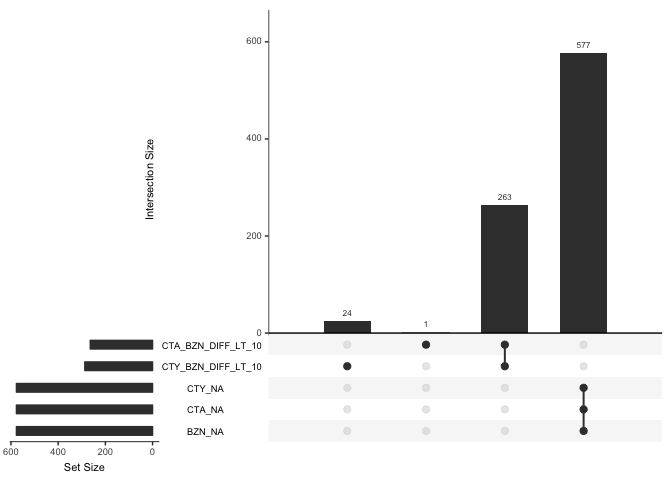
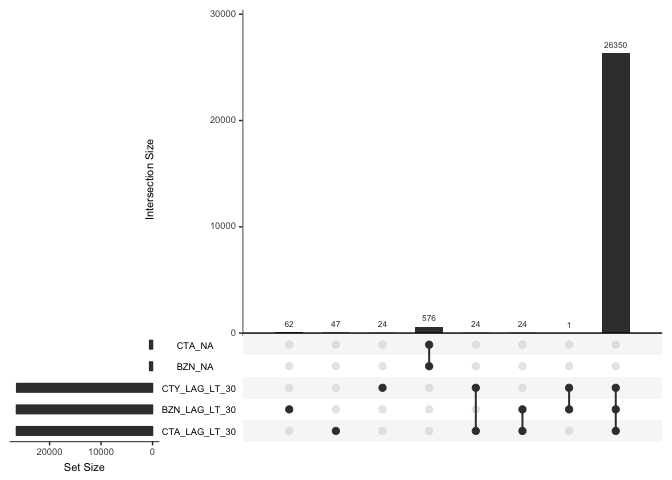
update readme

diff --git a/README.md b/README.md
@@ -1,33 +1,47 @@
 <!-- README.md is generated from README.Rmd. Please edit that file -->
-[![Build Status](https://travis-ci.org/rte-antares-rpackage/antaDraft.svg?branch=master)](https://travis-ci.org/rte-antares-rpackage/antaDraft) [![AppVeyor Build Status](https://ci.appveyor.com/api/projects/status/github/rte-antares-rpackage/antaDraft?branch=master&svg=true)](https://ci.appveyor.com/project/rte-antares-rpackage/antaDraft) [![version](http://www.r-pkg.org/badges/version/antaDraft)](https://CRAN.R-project.org/package=antaDraft) [![Project Status: WIP - Initial development is in progress, but there has not yet been a stable, usable release suitable for the public.](http://www.repostatus.org/badges/latest/wip.svg)](http://www.repostatus.org/#wip) [![codecov](https://codecov.io/gh/rte-antares-rpackage/antaDraft/branch/master/graph/badge.svg)](https://codecov.io/gh/rte-antares-rpackage/antaDraft)
+[![Build
+Status](https://travis-ci.org/rte-antares-rpackage/antaDraft.svg?branch=master)](https://travis-ci.org/rte-antares-rpackage/antaDraft)
+[![AppVeyor Build
+Status](https://ci.appveyor.com/api/projects/status/github/rte-antares-rpackage/antaDraft?branch=master&svg=true)](https://ci.appveyor.com/project/rte-antares-rpackage/antaDraft)
+[![version](http://www.r-pkg.org/badges/version/antaDraft)](https://CRAN.R-project.org/package=antaDraft)
+[![Project Status: WIP - Initial development is in progress, but there
+has not yet been a stable, usable release suitable for the
+public.](http://www.repostatus.org/badges/latest/wip.svg)](http://www.repostatus.org/#wip)
+[![codecov](https://codecov.io/gh/rte-antares-rpackage/antaDraft/branch/master/graph/badge.svg)](https://codecov.io/gh/rte-antares-rpackage/antaDraft)
 
 antaDraft
 =========
 
-Le package contient un ensemble de fonctions pour vérifier et corriger des données entsoe.
+Le package contient un ensemble de fonctions pour vérifier et corriger
+des données entsoe.
 
-L'objectif du package est de permettre la création d'un jeu de données complet pour deux années de données et pour plusieurs pays.
+L’objectif du package est de permettre la création d’un jeu de données
+complet pour deux années de données et pour plusieurs pays.
 
-Les données peuvent être manquantes ou imparfaites. Il s'agit de permettre :
+Les données peuvent être manquantes ou imparfaites. Il s’agit de
+permettre :
 
--   l'identification des problèmes,
--   leur reporting afin de permettre leur correction par l'entsoe,
--   leur correction si la donnée n'a pu être corrigée par l'entsoe.
+-   l’identification des problèmes,
+-   leur reporting afin de permettre leur correction par l’entsoe,
+-   leur correction si la donnée n’a pu être corrigée par l’entsoe.
 
-La procédure est pour l'instant implémentée pour les données de consommation.
+La procédure est pour l’instant implémentée pour les données de
+consommation.
 
 Utilisation
 -----------
 
-On va charger l'ensemble des données archivées sur archive.org à l'URL suivante : <https://archive.org/details/RTE_load>
+On va charger l’ensemble des données archivées sur archive.org à l’URL
+suivante : <https://archive.org/details/RTE_load>
 
-Le zip à charger est le suivant: <https://archive.org/download/RTE_load/load.zip>.
+Le zip à charger est le suivant:
+<https://archive.org/download/RTE_load/load.zip>.
 
 ``` r
 load_dir <- file.path(tempdir(), "load_files" )
 load_zip <- file.path(tempdir(), "load.zip" )
 
-local_zip <- "/Users/davidgohel/Documents/consulting/RTE/load.zip"
+local_zip <- "/Users/davidgohel/Documents/consulting/RTE/load_20180115.zip"
 if( file.exists(local_zip))
   file.copy(local_zip, load_zip, overwrite = TRUE )
 #> [1] TRUE
@@ -42,7 +56,9 @@ if( dir.exists(load_dir) )
 utils::unzip(load_zip, exdir = load_dir )
 ```
 
-Les données sont disponibles dans le répertoire /var/folders/51/6jygptvs3bb4njv0t6x7br900000gn/T//Rtmplu1jVV/load\_files. Celui ci contient les fichiers suivants :
+Les données sont disponibles dans le répertoire
+/var/folders/51/6jygptvs3bb4njv0t6x7br900000gn/T//RtmphJmpGM/load\_files.
+Celui ci contient les fichiers suivants :
 
 ``` r
 csv_files <- list.files(load_dir, full.names = TRUE, pattern = "\\.csv$")
@@ -55,42 +71,44 @@ kable(csv_infos)
 
 |      size|  mode| file                          |
 |---------:|-----:|:------------------------------|
-|   4818386|   644| 2014\_12\_ActualTotalLoad.csv |
-|  11754185|   644| 2015\_1\_ActualTotalLoad.csv  |
-|  11875151|   644| 2015\_10\_ActualTotalLoad.csv |
-|  11310245|   644| 2015\_11\_ActualTotalLoad.csv |
-|  11781045|   644| 2015\_12\_ActualTotalLoad.csv |
-|  10726041|   644| 2015\_2\_ActualTotalLoad.csv  |
-|  11786273|   644| 2015\_3\_ActualTotalLoad.csv  |
-|  11696767|   644| 2015\_4\_ActualTotalLoad.csv  |
-|  12125893|   644| 2015\_5\_ActualTotalLoad.csv  |
-|  11541557|   644| 2015\_6\_ActualTotalLoad.csv  |
-|  11875512|   644| 2015\_7\_ActualTotalLoad.csv  |
-|  11475232|   644| 2015\_8\_ActualTotalLoad.csv  |
-|  11390834|   644| 2015\_9\_ActualTotalLoad.csv  |
-|  11418000|   644| 2016\_1\_ActualTotalLoad.csv  |
-|  11872808|   644| 2016\_10\_ActualTotalLoad.csv |
-|  11450892|   644| 2016\_11\_ActualTotalLoad.csv |
-|  11911508|   644| 2016\_12\_ActualTotalLoad.csv |
-|  10714419|   644| 2016\_2\_ActualTotalLoad.csv  |
-|  11895715|   644| 2016\_3\_ActualTotalLoad.csv  |
-|  11049161|   644| 2016\_4\_ActualTotalLoad.csv  |
-|  11393888|   644| 2016\_5\_ActualTotalLoad.csv  |
-|  11050699|   644| 2016\_6\_ActualTotalLoad.csv  |
-|  11617278|   644| 2016\_7\_ActualTotalLoad.csv  |
-|  11567217|   644| 2016\_8\_ActualTotalLoad.csv  |
-|  11134715|   644| 2016\_9\_ActualTotalLoad.csv  |
-|  11780627|   644| 2017\_1\_ActualTotalLoad.csv  |
-|  12195737|   644| 2017\_10\_ActualTotalLoad.csv |
-|   6721301|   644| 2017\_11\_ActualTotalLoad.csv |
-|  10569835|   644| 2017\_2\_ActualTotalLoad.csv  |
-|  11947416|   644| 2017\_3\_ActualTotalLoad.csv  |
-|  11574205|   644| 2017\_4\_ActualTotalLoad.csv  |
-|  11942550|   644| 2017\_5\_ActualTotalLoad.csv  |
-|  11595339|   644| 2017\_6\_ActualTotalLoad.csv  |
-|  11714825|   644| 2017\_7\_ActualTotalLoad.csv  |
-|  11457734|   644| 2017\_8\_ActualTotalLoad.csv  |
-|  11212010|   644| 2017\_9\_ActualTotalLoad.csv  |
+|   4818387|   644| 2014\_12\_ActualTotalLoad.csv |
+|  11754929|   644| 2015\_1\_ActualTotalLoad.csv  |
+|  11875895|   644| 2015\_10\_ActualTotalLoad.csv |
+|  11310965|   644| 2015\_11\_ActualTotalLoad.csv |
+|  11781789|   644| 2015\_12\_ActualTotalLoad.csv |
+|  10726713|   644| 2015\_2\_ActualTotalLoad.csv  |
+|  11787017|   644| 2015\_3\_ActualTotalLoad.csv  |
+|  11697487|   644| 2015\_4\_ActualTotalLoad.csv  |
+|  12126637|   644| 2015\_5\_ActualTotalLoad.csv  |
+|  11542277|   644| 2015\_6\_ActualTotalLoad.csv  |
+|  11876256|   644| 2015\_7\_ActualTotalLoad.csv  |
+|  11475976|   644| 2015\_8\_ActualTotalLoad.csv  |
+|  11391554|   644| 2015\_9\_ActualTotalLoad.csv  |
+|  11419260|   644| 2016\_1\_ActualTotalLoad.csv  |
+|  11875625|   644| 2016\_10\_ActualTotalLoad.csv |
+|  11451870|   644| 2016\_11\_ActualTotalLoad.csv |
+|  11912513|   644| 2016\_12\_ActualTotalLoad.csv |
+|  10715373|   644| 2016\_2\_ActualTotalLoad.csv  |
+|  11896459|   644| 2016\_3\_ActualTotalLoad.csv  |
+|  11049881|   644| 2016\_4\_ActualTotalLoad.csv  |
+|  11394632|   644| 2016\_5\_ActualTotalLoad.csv  |
+|  11051677|   644| 2016\_6\_ActualTotalLoad.csv  |
+|  11618280|   644| 2016\_7\_ActualTotalLoad.csv  |
+|  11567961|   644| 2016\_8\_ActualTotalLoad.csv  |
+|  11135435|   644| 2016\_9\_ActualTotalLoad.csv  |
+|  11781347|   644| 2017\_1\_ActualTotalLoad.csv  |
+|  12206677|   644| 2017\_10\_ActualTotalLoad.csv |
+|  11575500|   644| 2017\_11\_ActualTotalLoad.csv |
+|  11797364|   644| 2017\_12\_ActualTotalLoad.csv |
+|  10570762|   644| 2017\_2\_ActualTotalLoad.csv  |
+|  11948418|   644| 2017\_3\_ActualTotalLoad.csv  |
+|  11574925|   644| 2017\_4\_ActualTotalLoad.csv  |
+|  11943294|   644| 2017\_5\_ActualTotalLoad.csv  |
+|  11596317|   644| 2017\_6\_ActualTotalLoad.csv  |
+|  11715569|   644| 2017\_7\_ActualTotalLoad.csv  |
+|  11458478|   644| 2017\_8\_ActualTotalLoad.csv  |
+|  11212775|   644| 2017\_9\_ActualTotalLoad.csv  |
+|   3153704|   644| 2018\_1\_ActualTotalLoad.csv  |
 
 ### Les données brutes
 
@@ -103,7 +121,8 @@ load_data <- anta_load_read(data_dir = load_dir )
 
 ### Validation des données brutes
 
-L'opération va ajouter autant de colonnes qu'il y a de tests exprimés dans le fichier `config/load/raw_validate.yml`.
+L’opération va ajouter autant de colonnes qu’il y a de tests exprimés
+dans le fichier `config/load/raw_validate.yml`.
 
 Ce fichier décrit les règles de validation de chaque ligne de donnée.
 
@@ -114,32 +133,34 @@ Ce fichier décrit les règles de validation de chaque ligne de donnée.
   name: IS_OBS
 - expr: is.finite(TotalLoadValue)
   name: IS_FINITE
-- expr: sign(TotalLoadValue)&gt;0
+- expr: sign(TotalLoadValue)&gt;0.001
   name: IS_POS
 </pre>
 <!--/html_preserve-->
 ``` r
 load_data <- augment_validation(load_data)
 head(load_data)
-#>     DateTime  MapCode AreaTypeCode country TotalLoadValue observed IS_OBS
-#> 1 2014-12-01       AT          CTA AUSTRIA             NA     TRUE   TRUE
-#> 2 2014-12-01       AT          CTY AUSTRIA             NA     TRUE   TRUE
-#> 3 2014-12-01 DE_AT_LU          BZN AUSTRIA       11239.13     TRUE   TRUE
-#> 4 2014-12-01       BE          BZN BELGIUM        9100.34     TRUE   TRUE
-#> 5 2014-12-01       BE          CTA BELGIUM        9100.34     TRUE   TRUE
-#> 6 2014-12-01       BE          CTY BELGIUM        9100.34     TRUE   TRUE
-#>   IS_FINITE IS_POS
-#> 1     FALSE   TRUE
-#> 2     FALSE   TRUE
-#> 3      TRUE   TRUE
-#> 4      TRUE   TRUE
-#> 5      TRUE   TRUE
-#> 6      TRUE   TRUE
+#>     DateTime MapCode AreaTypeCode     country AreaName TotalLoadValue
+#> 1 2014-12-01      AT          CTA     AUSTRIA     <NA>             NA
+#> 2 2014-12-01      AT          CTY     AUSTRIA     <NA>             NA
+#> 3 2014-12-01      BE          BZN     BELGIUM  Elia BZ        9100.34
+#> 4 2014-12-01      BE          CTA     BELGIUM  Elia CA        9100.34
+#> 5 2014-12-01      BE          CTY     BELGIUM  Belgium        9100.34
+#> 6 2014-12-01      CH          BZN SWITZERLAND     <NA>             NA
+#>   observed IS_OBS IS_FINITE IS_POS
+#> 1    FALSE  FALSE      TRUE   TRUE
+#> 2    FALSE  FALSE      TRUE   TRUE
+#> 3     TRUE   TRUE      TRUE   TRUE
+#> 4     TRUE   TRUE      TRUE   TRUE
+#> 5     TRUE   TRUE      TRUE   TRUE
+#> 6    FALSE  FALSE      TRUE   TRUE
 ```
 
 ### Les données agrégées
 
-On va produire les données agrégées avec la fonction `aggregate_with_rules`. Les règles sont exprimées dans le fichier `config/load/cty_rules.yml`.
+On va produire les données agrégées avec la fonction
+`aggregate_with_rules`. Les règles sont exprimées dans le fichier
+`config/global/atc_per_country.yml`.
 
 <!--html_preserve-->
 <pre>FRANCE:
@@ -198,7 +219,7 @@ ITALY:
   BZN:
     - IT_CNOR
     - IT_CSUD
-    - IT_NORD
+    - IT_North
     - IT_SARD
     - IT_SICI
     - IT_SUD
@@ -264,13 +285,15 @@ LUXEMBOURG:
     - "!CTY|AUSTRIA"
 </pre>
 <!--/html_preserve-->
-La fonction prend des données de *load* comme argument, c'est à dire obtenue avec la fonction `anta_load_read()`.
+La fonction prend des données de *load* comme argument, c’est à dire
+obtenue avec la fonction `anta_load_read()`.
 
 ``` r
-aggregated_db <- aggregate_with_rules(load_data)
+aggregated_db <- agg_data(load_data)
 ```
 
-Ces données peuvent être représentées graphiquement avec la fonction `plot` (voire `?plot.aggregated`).
+Ces données peuvent être représentées graphiquement avec la fonction
+`plot` (voire `?plot.aggregated`).
 
 ``` r
 plot(aggregated_db, subset = aggregated_db$country %in% "SWITZERLAND")
@@ -280,7 +303,8 @@ plot(aggregated_db, subset = aggregated_db$country %in% "SWITZERLAND")
 
 ### Validation des données agrégées
 
-Comme pour les données brutes, l'opération va ajouter autant de colonnes qu'il y a de tests exprimés dans le fichier `agg_validate.yml`.
+Comme pour les données brutes, l’opération va ajouter autant de colonnes
+qu’il y a de tests exprimés dans le fichier `agg_validate.yml`.
 
 <!--html_preserve-->
 <pre>rules:
@@ -292,11 +316,11 @@ Comme pour les données brutes, l'opération va ajouter autant de colonnes qu'il
 - expr: is.finite(BZN)
   name: BZN_NA
 
-- expr: CTY &gt; 0
+- expr: CTY &gt; 0.001
   name: CTY_IS_POS
-- expr: CTA &gt; 0
+- expr: CTA &gt; 0.001
   name: CTA_IS_POS
-- expr: BZN &gt; 0
+- expr: BZN &gt; 0.001
   name: BZN_IS_POS
 
 - expr: abs(CTY-CTA) &lt; 1
@@ -335,18 +359,14 @@ Comme pour les données brutes, l'opération va ajouter autant de colonnes qu'il
 aggregated_db <- augment_validation(aggregated_db)
 ```
 
-Ces données peuvent être représentées graphiquement avec la fonction `plot` (voire `?plot.controled`).
+Ces données peuvent être représentées graphiquement avec la fonction
+`plot` (voire `?plot.controled`).
 
 ``` r
 plot(aggregated_db, subset = aggregated_db$country %in% "SWITZERLAND")
-#> Called from: plot.controled(aggregated_db, subset = aggregated_db$country %in% 
-#>     "SWITZERLAND")
-#> debug à /Users/davidgohel/Github/antaDraft/R/plot_functions.R#114 :upset(as.data.frame(data), ...)
 ```
 
 ![](tools/README/unnamed-chunk-12-1.png)
-
-    #> debug à /Users/davidgohel/Github/antaDraft/R/plot_functions.R#115 :invisible()
 
 ### Correction mécanique des données agrégées
 
@@ -370,24 +390,26 @@ aggregated_db %>%
 
 | country        |  corrected|  invalid|  original|
 |:---------------|----------:|--------:|---------:|
-| AUSTRIA        |      13983|       35|     11982|
-| BELGIUM        |          9|      285|     25706|
-| FRANCE         |          1|      396|     25603|
-| GERMANY        |      14006|       11|     11983|
-| IRELAND        |          9|     2729|     23262|
-| ITALY          |         NA|      790|     25210|
-| LUXEMBOURG     |      13848|      390|     11762|
-| NETHERLANDS    |         28|       29|     25943|
-| NORTH\_IRELAND |      21307|     4693|        NA|
-| PORTUGAL       |       1047|      176|     24777|
-| SPAIN          |        767|      502|     24731|
-| SWITZERLAND    |         25|      877|     25098|
-| UK             |          1|      767|     25232|
+| AUSTRIA        |      13989|    13044|       218|
+| BELGIUM        |          9|    24500|      2742|
+| FRANCE         |          1|    26985|       265|
+| GERMANY        |      14012|     1212|     12027|
+| IRELAND        |          9|    27242|        NA|
+| ITALY          |         24|    25440|      1787|
+| LUXEMBOURG     |      13854|    13351|        46|
+| NETHERLANDS    |         28|    27223|        NA|
+| NORTH\_IRELAND |      21310|     5941|        NA|
+| PORTUGAL       |       1047|    24418|      1786|
+| SPAIN          |        767|    26484|        NA|
+| SWITZERLAND    |         49|    27165|        37|
+| UK             |          1|    27162|        88|
 
 Correction des données par modèles de prévisions
 ------------------------------------------------
 
-Il faut dans un premier temps enrichir la base de données avec des variables potentiellement explicatives. On utilise la fonction `as_learning_db`.
+Il faut dans un premier temps enrichir la base de données avec des
+variables potentiellement explicatives. On utilise la fonction
+`as_learning_db`.
 
 ``` r
 dat <- as_learning_db(aggregated_db )
@@ -414,26 +436,26 @@ head(dat)
 #> 5               TRUE               TRUE               TRUE
 #> 6               TRUE               TRUE               TRUE
 #>   CTY_CTA_DIFF_LT_10 CTY_BZN_DIFF_LT_10 CTA_BZN_DIFF_LT_10 CTY_LAG_LT_30
-#> 1              FALSE              FALSE              FALSE          TRUE
-#> 2              FALSE              FALSE              FALSE          TRUE
-#> 3              FALSE              FALSE              FALSE          TRUE
-#> 4              FALSE              FALSE              FALSE          TRUE
-#> 5              FALSE              FALSE              FALSE          TRUE
-#> 6              FALSE              FALSE              FALSE          TRUE
-#>   CTA_LAG_LT_30 BZN_LAG_LT_30 rule_0002_CTY rule_0001_CTA summary is_off
-#> 1          TRUE          TRUE         FALSE         FALSE invalid  FALSE
-#> 2          TRUE          TRUE         FALSE         FALSE invalid  FALSE
-#> 3          TRUE          TRUE         FALSE         FALSE invalid  FALSE
-#> 4          TRUE          TRUE         FALSE         FALSE invalid  FALSE
-#> 5          TRUE          TRUE         FALSE         FALSE invalid  FALSE
-#> 6          TRUE          TRUE         FALSE         FALSE invalid  FALSE
-#>   likely_off year.iso week.iso hour.iso day.iso light_time
-#> 1      FALSE     2014       49        0       2        524
-#> 2      FALSE     2014       49        1       2        524
-#> 3      FALSE     2014       49        2       2        524
-#> 4      FALSE     2014       49        3       2        524
-#> 5      FALSE     2014       49        4       2        524
-#> 6      FALSE     2014       49        5       2        524
+#> 1               TRUE               TRUE               TRUE          TRUE
+#> 2               TRUE               TRUE               TRUE          TRUE
+#> 3               TRUE               TRUE               TRUE          TRUE
+#> 4               TRUE               TRUE               TRUE          TRUE
+#> 5               TRUE               TRUE               TRUE          TRUE
+#> 6               TRUE               TRUE               TRUE          TRUE
+#>   CTA_LAG_LT_30 BZN_LAG_LT_30 rule_0003_BZN rule_0002_CTY rule_0001_CTA
+#> 1          TRUE          TRUE         FALSE         FALSE         FALSE
+#> 2          TRUE          TRUE         FALSE         FALSE         FALSE
+#> 3          TRUE          TRUE         FALSE         FALSE         FALSE
+#> 4          TRUE          TRUE         FALSE         FALSE         FALSE
+#> 5          TRUE          TRUE         FALSE         FALSE         FALSE
+#> 6          TRUE          TRUE         FALSE         FALSE         FALSE
+#>   summary is_off likely_off year.iso week.iso hour.iso day.iso light_time
+#> 1 invalid  FALSE      FALSE     2014       49        0       2        524
+#> 2 invalid  FALSE      FALSE     2014       49        1       2        524
+#> 3 invalid  FALSE      FALSE     2014       49        2       2        524
+#> 4 invalid  FALSE      FALSE     2014       49        3       2        524
+#> 5 invalid  FALSE      FALSE     2014       49        4       2        524
+#> 6 invalid  FALSE      FALSE     2014       49        5       2        524
 #>   HOUR_SHIFT_CTY_PLUS_1 HOUR_SHIFT_CTY_MINUS_1 DAILY_MIN_CTY_PLUS_1
 #> 1                    NA                     NA                   NA
 #> 2                    NA                     NA                   NA
@@ -457,9 +479,11 @@ head(dat)
 #> 6              7581.317                8661.2
 ```
 
-On peut alors créer deux modèles, un dépandant des mesures suivantes et un dépendant des mesures précédentes.
+On peut alors créer deux modèles, un dépandant des mesures suivantes et
+un dépendant des mesures précédentes.
 
-On utilisera pour cela la fonction `define_model_rf`. Celle-ci sauvegarde les modèles dans un répertoire local à la machine.
+On utilisera pour cela la fonction `define_model_rf`. Celle-ci
+sauvegarde les modèles dans un répertoire local à la machine.
 
 ``` r
 repertoire_model <- tempfile()
@@ -494,7 +518,8 @@ dat <- define_model_rf(
   save_model_dir = repertoire_model, id = "FORWARD" )
 ```
 
-Maintenant qu'on a deux modèles, on peut les utiliser en boucle pour remplacer les valeurs invalides par des valeurs prévues par les modèles.
+Maintenant qu’on a deux modèles, on peut les utiliser en boucle pour
+remplacer les valeurs invalides par des valeurs prévues par les modèles.
 
 ``` r
 for(i in 1:12 ){
